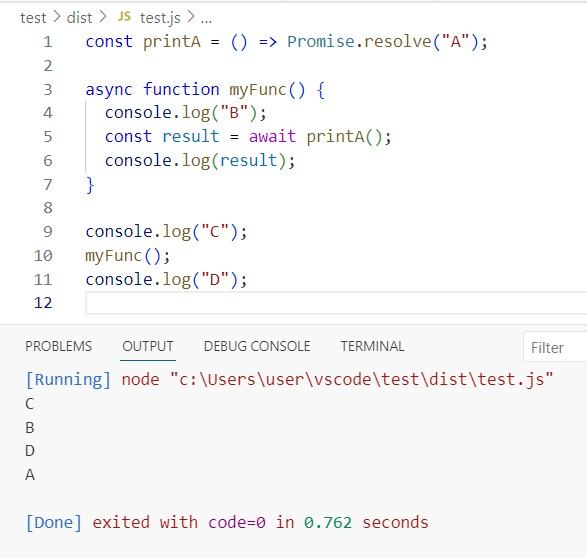
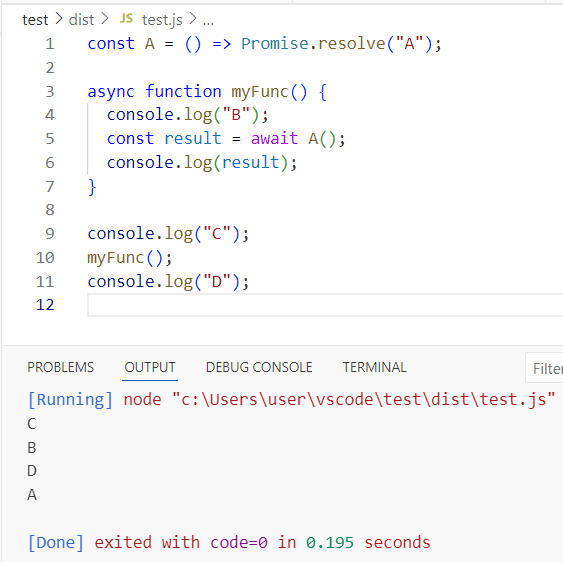
docs: 이벤트 루프 async/await 예시 이미지 추가

diff --git a/utils/convertImageToAVIF.js b/utils/convertImageToAVIF.js
@@ -1,0 +1,28 @@
+const { execSync } = require('child_process');
+const fs = require('fs');
+
+fs.readdir('./', (err, files) => {
+  if (err) {
+    console.error(`Error: ${err.message}`);
+    return;
+  }
+
+  const filteredFiles = files.filter(
+    (file) => file !== 'convertImageToAVIF.js' && !file.endsWith('.avif')
+  );
+  const length = filteredFiles.length;
+
+  filteredFiles.forEach((file, index) => {
+    console.log(
+      `(${index + 1}/${length}) Converting ${file} to ${
+        file.split('.')[0]
+      }.avif...`
+    );
+    execSync(`ffmpeg -i ${file} ${file.split('.')[0]}.avif -hide_banner`);
+    console.log('Conversion complete!\n');
+  });
+
+  filteredFiles.forEach((file) => {
+    fs.rmSync(file);
+  });
+});

diff --git a/_posts/2025-02-24-event-loop.md b/_posts/2025-02-24-event-loop.md
@@ -15,19 +15,6 @@ comments: true
 <blockquote class="prompt-info"><p><strong><u>Tags</u></strong><br>
 JavaScript, Event Loop, Execution Context</p></blockquote>
 
-<h2>목차</h2>
-
-- [개요](#개요)
-- [이벤트 루프 (Event Loop)](#이벤트-루프-event-loop)
-  - [이벤트 루프의 개념](#이벤트-루프의-개념)
-  - [이벤트 루프의 구성 요소](#이벤트-루프의-구성-요소)
-  - [이벤트 루프의 동작 원리](#이벤트-루프의-동작-원리)
-  - [이벤트 루프의 동작 순서 예시](#이벤트-루프의-동작-순서-예시)
-    - [예시 1](#예시-1)
-    - [예시 2](#예시-2)
-  - [주의 사항](#주의-사항)
-- [참고 자료](#참고-자료)
-
 ## 개요
 
 `이벤트 루프(Event Loop)`에 대해 정리한 페이지입니다.
@@ -64,11 +51,11 @@ JavaScript, Event Loop, Execution Context</p></blockquote>
 
   - `마이크로태스크 큐(Microtask Queue)`
 
-    Promise의 콜백, `queueMicrotask`, `MutationObserver`, async/await 등이 속하는 큐입니다.
+    `Promise의 콜백`, `queueMicrotask`, `MutationObserver`, `async/await` 등이 속하는 큐입니다.
 
   - `매크로태스크 큐(Macrotask Queue)`
 
-    주로 `setTimeout`, `setInterval` `setImmediate`, DOM 이벤트, I/O 작업 등이 속하는 큐입니다.
+    `setTimeout`, `setInterval` `setImmediate`, `DOM 이벤트`, `I/O 작업` 등이 속하는 큐입니다.
 
 - `이벤트 루프`
 
@@ -96,7 +83,7 @@ JavaScript, Event Loop, Execution Context</p></blockquote>
 
 ### 이벤트 루프의 동작 순서 예시
 
-#### 예시 1
+#### 예시 1 - setTimeout & Promise
 
 ```javascript
 console.log("A");
@@ -112,7 +99,7 @@ console.log("D");
 
 출력 순서는 <b>"A" → "D" → "C" → "B"</b>입니다. 콜 스택이 비워진 후 먼저 마이크로태스크 큐의 Promise 콜백이 모두 실행된 다음, 매크로태스크 큐에 있는 `setTimeout`의 콜백이 실행됩니다. 실행 순서를 자세하게 설명하면 다음과 같습니다.
 
-1. `console.log("A");`
+1. <b>console.log("A");</b>
 
    먼저 콜 스택에 `console.log("A");`가 추가되어 실행된 후 콜 스택에서 제거됩니다.
 
@@ -120,9 +107,9 @@ console.log("D");
 
    <img src="/assets/img/cs/event-loop/pic7.png" alt="pic7" style="box-shadow: 0 4px 8px 0 rgba(0, 0, 0, 0.2), 0 6px 20px 0 rgba(0, 0, 0, 0.19); border-radius: 0.5rem"/>
 
-2. `setTimeout(() => { console.log("B"); }, 0);`
+2. <b>setTimeout(() => { console.log("B"); }, 0);</b>
 
-   `setTimeout` 코드가 콜 스택에 쌓인 후 `setTimeout`의 콜백 함수가 이벤트 루프에 의해 Web API로 옮겨지고 타이머가 작동합니다. 타이머가 0초로 설정되었으므로 바로 타이머가 종료되고 콜백 함수가 매크로태스크 큐로 이동합니다.
+   `setTimeout` 코드가 콜 스택에 쌓인 후 `setTimeout`의 콜백 함수가 Web API로 옮겨지고 타이머가 작동합니다. 타이머가 0초로 설정되었으므로 바로 타이머가 종료되고 콜백 함수가 매크로태스크 큐로 이동합니다.
 
    <img src="/assets/img/cs/event-loop/pic8.png" alt="pic8" style="box-shadow: 0 4px 8px 0 rgba(0, 0, 0, 0.2), 0 6px 20px 0 rgba(0, 0, 0, 0.19); border-radius: 0.5rem"/>
 
@@ -130,15 +117,15 @@ console.log("D");
 
    <img src="/assets/img/cs/event-loop/pic10.png" alt="pic10" style="box-shadow: 0 4px 8px 0 rgba(0, 0, 0, 0.2), 0 6px 20px 0 rgba(0, 0, 0, 0.19); border-radius: 0.5rem"/>
 
-3. `Promise.resolve("C").then((res) => console.log(res));`
+3. <b>Promise.resolve("C").then((res) => console.log(res));</b>
 
-   `Promise` 코드가 콜 스택에 쌓인 후 `then`의 콜백 함수가 이벤트 루프에 의해 마이크로태스크 큐로 이동합니다.
+   `Promise` 코드가 콜 스택에 쌓인 후 `then`의 콜백 함수가 마이크로태스크 큐로 이동합니다.
 
    <img src="/assets/img/cs/event-loop/pic11.png" alt="pic11" style="box-shadow: 0 4px 8px 0 rgba(0, 0, 0, 0.2), 0 6px 20px 0 rgba(0, 0, 0, 0.19); border-radius: 0.5rem"/>
 
    <img src="/assets/img/cs/event-loop/pic12.png" alt="pic12" style="box-shadow: 0 4px 8px 0 rgba(0, 0, 0, 0.2), 0 6px 20px 0 rgba(0, 0, 0, 0.19); border-radius: 0.5rem"/>
 
-4. `console.log("D");`
+4. <b>console.log("D");</b>
 
    콜 스택에 `console.log("D");`가 추가되어 실행된 후 콜 스택에서 제거됩니다.
 
@@ -146,7 +133,7 @@ console.log("D");
 
    <img src="/assets/img/cs/event-loop/pic14.png" alt="pic14" style="box-shadow: 0 4px 8px 0 rgba(0, 0, 0, 0.2), 0 6px 20px 0 rgba(0, 0, 0, 0.19); border-radius: 0.5rem"/>
 
-5. `마이크로태스크 큐의 콜백 처리`
+5. <b>마이크로태스크 큐의 콜백 처리</b>
 
    콜 스택에 더 이상 실행할 코드가 남아있지 않는 경우 이벤트 루프는 태스크 큐에서 대기 중인 콜백 함수를 꺼내 콜 스택으로 옮깁니다. 이 때 마이크로태스크 큐의 콜백부터 먼저 처리합니다.
 
@@ -158,7 +145,7 @@ console.log("D");
 
    <img src="/assets/img/cs/event-loop/pic18.png" alt="pic18" style="box-shadow: 0 4px 8px 0 rgba(0, 0, 0, 0.2), 0 6px 20px 0 rgba(0, 0, 0, 0.19); border-radius: 0.5rem"/>
 
-6. `매크로태스크 큐의 콜백 처리`
+6. <b>매크로태스크 큐의 콜백 처리</b>
 
    마이크로태스크 큐에 콜백이 더 이상 존재하지 않는 경우 이벤트 루프는 매크로태스크 큐의 콜백을 콜 스택으로 옮깁니다.
 
@@ -170,11 +157,88 @@ console.log("D");
 
 <img src="/assets/img/cs/event-loop/pic1.png" alt="pic1" style="box-shadow: 0 4px 8px 0 rgba(0, 0, 0, 0.2), 0 6px 20px 0 rgba(0, 0, 0, 0.19); border-radius: 0.5rem"/>
 
-#### 예시 2
+#### 예시 2 - async/await
+
+```javascript
+const A = () => Promise.resolve("A");
+
+async function myFunc() {
+  console.log("B");
+  const result = await A();
+  console.log(result);
+}
+
+console.log("C");
+myFunc();
+console.log("D");
+```
+
+출력 순서는 <b>"C" → "B" → "D" → "A"</b>입니다. 먼저 <b>"C"</b>가 출력된 후 myFunc 함수가 호출되어 <b>"B"</b>를 호출합니다. 해당 함수 내부의 `A()`의 Promise가 해결되기 전까지 myFunc 함수를 일시 정지합니다. 이후 <b>"D"</b>를 출력한 후 마이크로태스크 큐에서 `await` 이후의 코드가 실행되어 <b>"A"</b>를 출력합니다. 실행 순서를 자세하게 설명하면 다음과 같습니다.
+
+1. <b>console.log("C");</b>
+
+   먼저 콜 스택에 `console.log("C");`가 추가되어 실행된 후 콜 스택에서 제거됩니다.
+
+   <img src="/assets/img/cs/event-loop/pic21.png" alt="pic21" style="box-shadow: 0 4px 8px 0 rgba(0, 0, 0, 0.2), 0 6px 20px 0 rgba(0, 0, 0, 0.19); border-radius: 0.5rem"/>
+
+   <img src="/assets/img/cs/event-loop/pic22.png" alt="pic22" style="box-shadow: 0 4px 8px 0 rgba(0, 0, 0, 0.2), 0 6px 20px 0 rgba(0, 0, 0, 0.19); border-radius: 0.5rem"/>
+
+2. <b>myFunc() 호출</b>
+
+   비동기 함수인 `myFunc()`이 호출됩니다.
+
+3. <b>console.log("B");</b>
+
+   콜 스택에 `console.log("B");`가 추가되어 실행된 후 콜 스택에서 제거됩니다.
+
+   <img src="/assets/img/cs/event-loop/pic23.png" alt="pic23" style="box-shadow: 0 4px 8px 0 rgba(0, 0, 0, 0.2), 0 6px 20px 0 rgba(0, 0, 0, 0.19); border-radius: 0.5rem"/>
+
+   <img src="/assets/img/cs/event-loop/pic24.png" alt="pic24" style="box-shadow: 0 4px 8px 0 rgba(0, 0, 0, 0.2), 0 6px 20px 0 rgba(0, 0, 0, 0.19); border-radius: 0.5rem"/>
+
+4. <b>const result = await A();</b>
+
+   비동기 함수 `A()`를 호출합니다. 이 때 <b>`await` 키워드로 인해 myFunc 내부의 코드 실행을 일시 중단하고 콜 스택에서 빠져나와 `await` 키워드 이후의 나머지 코드는 await A()의 then()의 콜백 함수로 처리되어 마이크로태스크 큐에 추가됩니다.</b>
+
+   <img src="/assets/img/cs/event-loop/pic25.png" alt="pic25" style="box-shadow: 0 4px 8px 0 rgba(0, 0, 0, 0.2), 0 6px 20px 0 rgba(0, 0, 0, 0.19); border-radius: 0.5rem"/>
+
+   <img src="/assets/img/cs/event-loop/pic26.png" alt="pic26" style="box-shadow: 0 4px 8px 0 rgba(0, 0, 0, 0.2), 0 6px 20px 0 rgba(0, 0, 0, 0.19); border-radius: 0.5rem"/>
+
+5. <b>console.log("D");</b>
+
+   콜 스택에 `console.log("D");`가 추가되어 실행된 후 콜 스택에서 제거됩니다.
+
+   <img src="/assets/img/cs/event-loop/pic27.png" alt="pic27" style="box-shadow: 0 4px 8px 0 rgba(0, 0, 0, 0.2), 0 6px 20px 0 rgba(0, 0, 0, 0.19); border-radius: 0.5rem"/>
+
+   <img src="/assets/img/cs/event-loop/pic28.png" alt="pic28" style="box-shadow: 0 4px 8px 0 rgba(0, 0, 0, 0.2), 0 6px 20px 0 rgba(0, 0, 0, 0.19); border-radius: 0.5rem"/>
+
+6. <b>마이크로태스크 큐의 콜백 처리</b>
+
+   콜 스택에 더 이상 실행할 코드가 남아있지 않으므로 이벤트 루프는 마이크로태스크 큐에서 대기 중인 콜백 함수를 꺼내 콜 스택으로 옮깁니다.
+
+   <img src="/assets/img/cs/event-loop/pic29.png" alt="pic29" style="box-shadow: 0 4px 8px 0 rgba(0, 0, 0, 0.2), 0 6px 20px 0 rgba(0, 0, 0, 0.19); border-radius: 0.5rem"/>
+
+   <img src="/assets/img/cs/event-loop/pic30.png" alt="pic30" style="box-shadow: 0 4px 8px 0 rgba(0, 0, 0, 0.2), 0 6px 20px 0 rgba(0, 0, 0, 0.19); border-radius: 0.5rem"/>
+
+실제 실행 결과도 다음과 같습니다.
 
 <img src="/assets/img/cs/event-loop/pic2.png" alt="pic2" style="box-shadow: 0 4px 8px 0 rgba(0, 0, 0, 0.2), 0 6px 20px 0 rgba(0, 0, 0, 0.19); border-radius: 0.5rem"/>
 
-출력 순서는 <b>"C" → "B" → "D" → "A"</b>입니다. 먼저 <b>"C"</b>가 출력된 후 myFunc 함수가 호출되어 <b>"B"</b>를 호출합니다. 해당 함수 내부의 `printA()`의 Promise가 해결되기 전까지 myFunc 함수를 일시 정지합니다. 이후 <b>"D"</b>를 출력한 후 마이크로태스크 큐에서 `await` 이후의 코드가 실행되어 <b>"A"</b>를 출력합니다.
+위의 코드에서 주목할 점은 바로 `await` 키워드입니다. <b>`await` 키워드를 사용하면 해당 키워드를 사용한 코드의 나머지 코드 부분이 then()의 콜백 함수로 처리되어 마이크로태스크 큐에 옮겨집니다.</b> 즉, 위의 코드는 다음 코드와 같습니다.
+
+```javascript
+const A = () => Promise.resolve("A");
+
+function myFunc() {
+  console.log("B");
+  return A().then((res) => {
+    console.log(res);
+  });
+}
+
+console.log("C");
+myFunc();
+console.log("D");
+```
 
 ### 주의 사항
 
